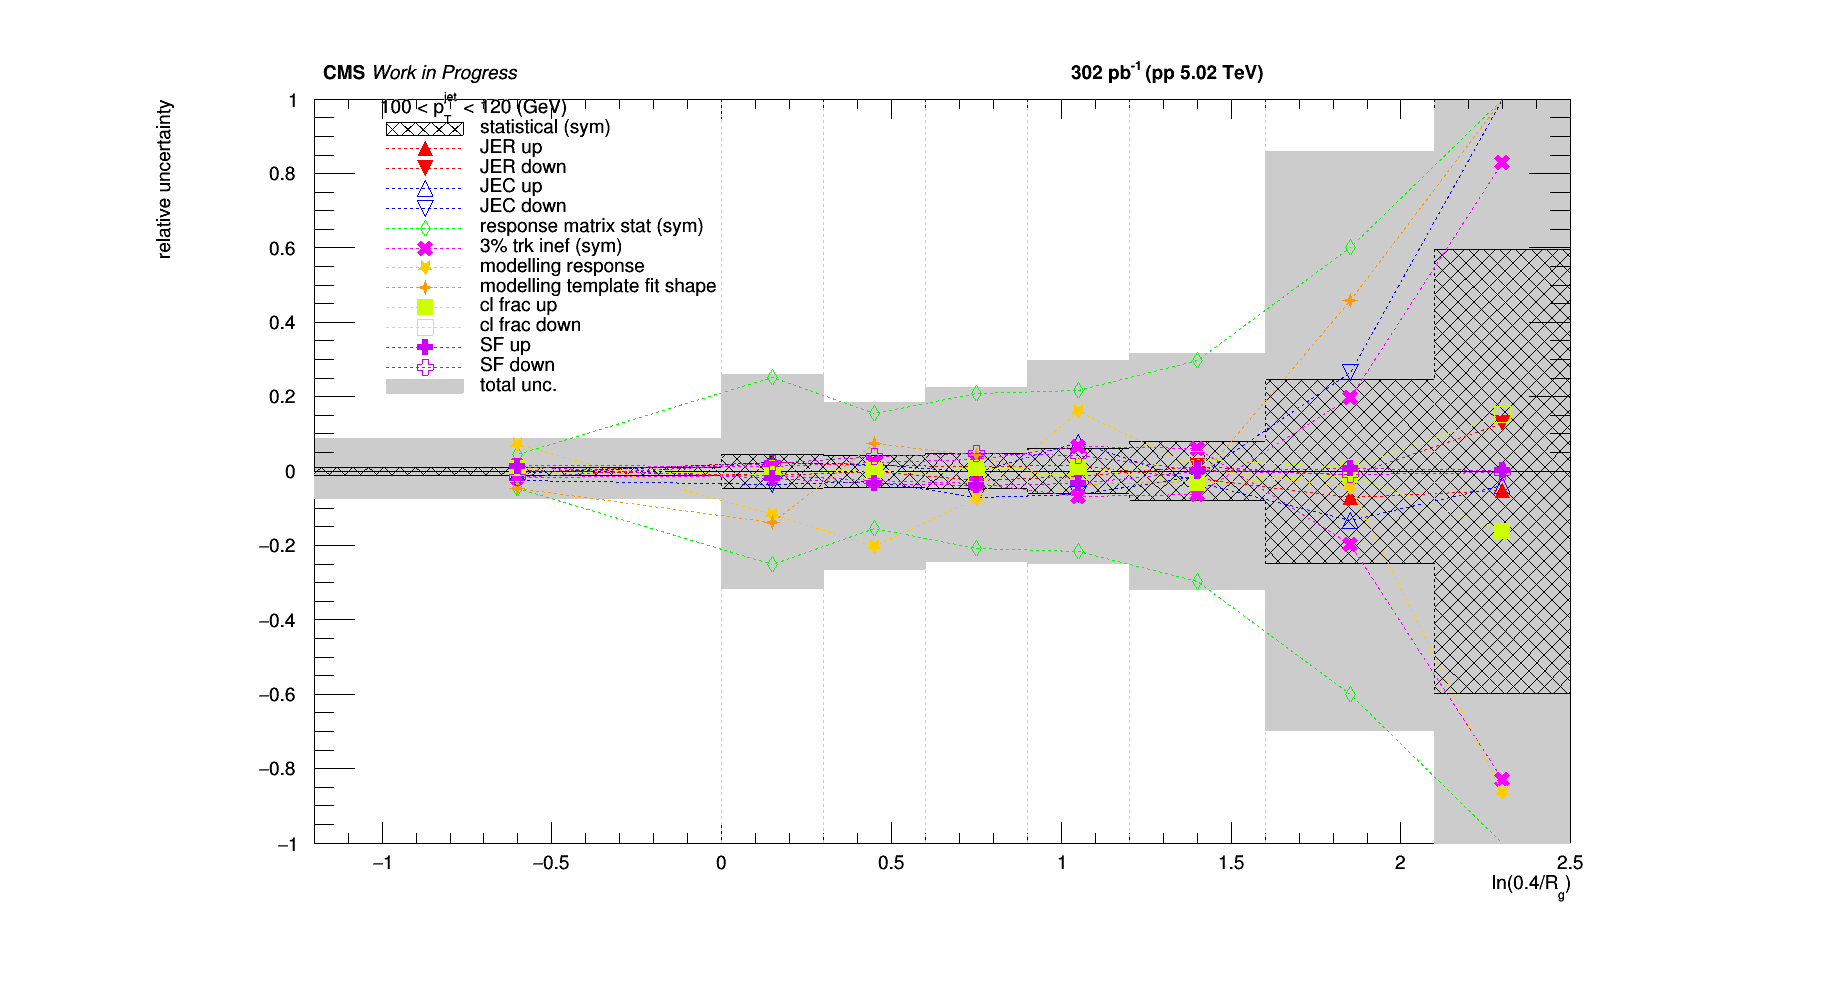
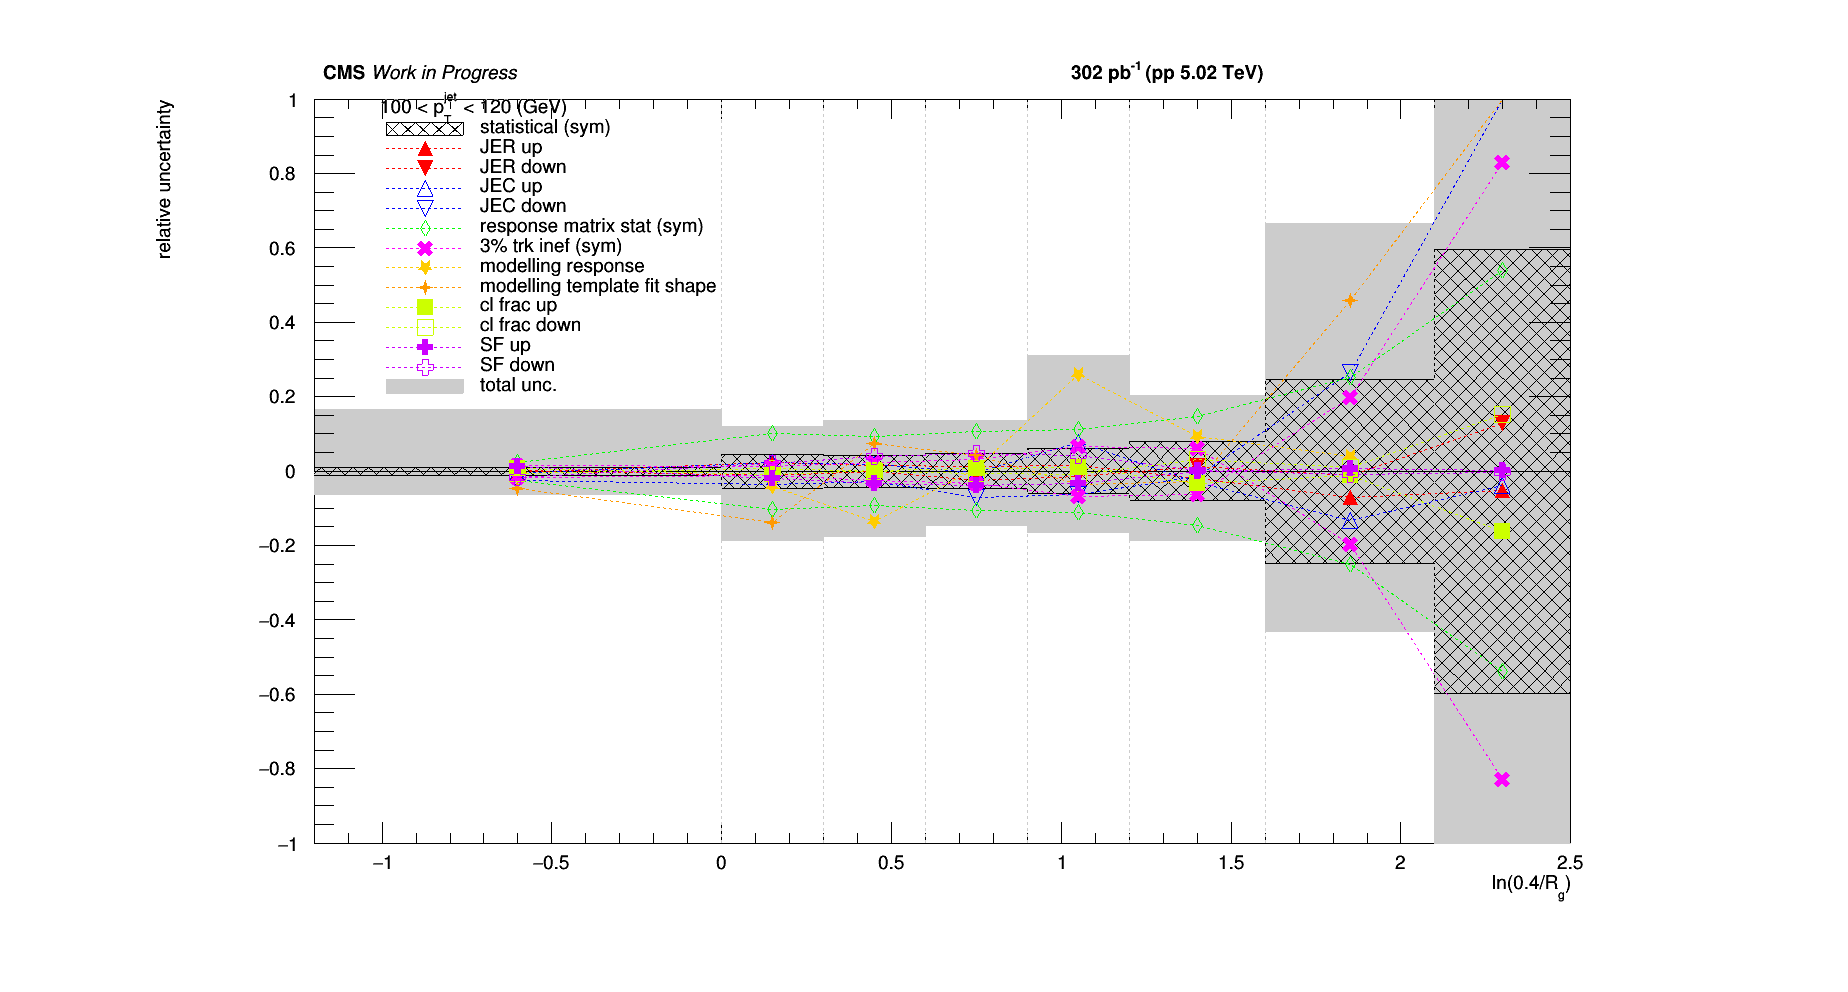
unc plot for wgm

diff --git a/myMacros/C106X/uncertanties/draw_unc.C b/myMacros/C106X/uncertanties/draw_unc.C
@@ -181,6 +181,34 @@ void draw_unc(TString observable="rg")
         h_total_unc_up->Write();
         h_total_unc_down->Write();
 
+        //---------------------- NEEDS CLEANUP: save syst total only 
+        TH1D *h_syst_unc_rel_up = (TH1D *) h_stat_unc_rel->Clone(Form("h_syst_unc_rel_up_%d", ibin_pt));
+        h_syst_unc_rel_up->Reset();
+        TH1D *h_syst_unc_rel_down = (TH1D *) h_syst_unc_rel_up->Clone(Form("h_syst_unc_rel_down_%d", ibin_pt));
+        for (int ibin_x = 1; ibin_x <= h_syst_unc_rel_up->GetNbinsX(); ibin_x++) {
+            double syst_unc_rel_up = 0;
+            double syst_unc_rel_down = 0;
+
+            for (auto h : histos) {
+                double unc_h = h->GetBinContent(ibin_x);
+                if (unc_h>0) {
+                    syst_unc_rel_up += unc_h*unc_h;
+                } else {
+                    syst_unc_rel_down += unc_h*unc_h;
+                }
+            }
+
+            syst_unc_rel_up = std::sqrt(syst_unc_rel_up);
+            syst_unc_rel_down = std::sqrt(syst_unc_rel_down);
+            syst_unc_rel_down *= -1;
+
+            h_syst_unc_rel_up->SetBinContent(ibin_x, syst_unc_rel_up);
+            h_syst_unc_rel_down->SetBinContent(ibin_x, syst_unc_rel_down);
+        }
+        h_syst_unc_rel_up->Write();
+        h_syst_unc_rel_down->Write();
+        //--------------------------------
+
         leg->AddEntry(h_total_unc_up, "total unc.", "f");
 
         double ymin=-1;
